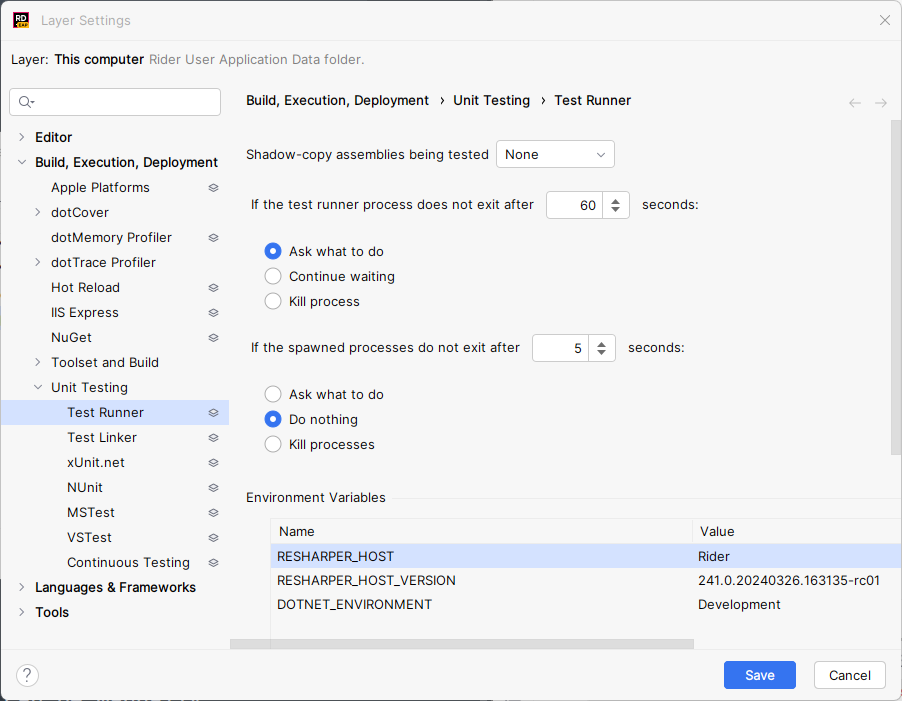
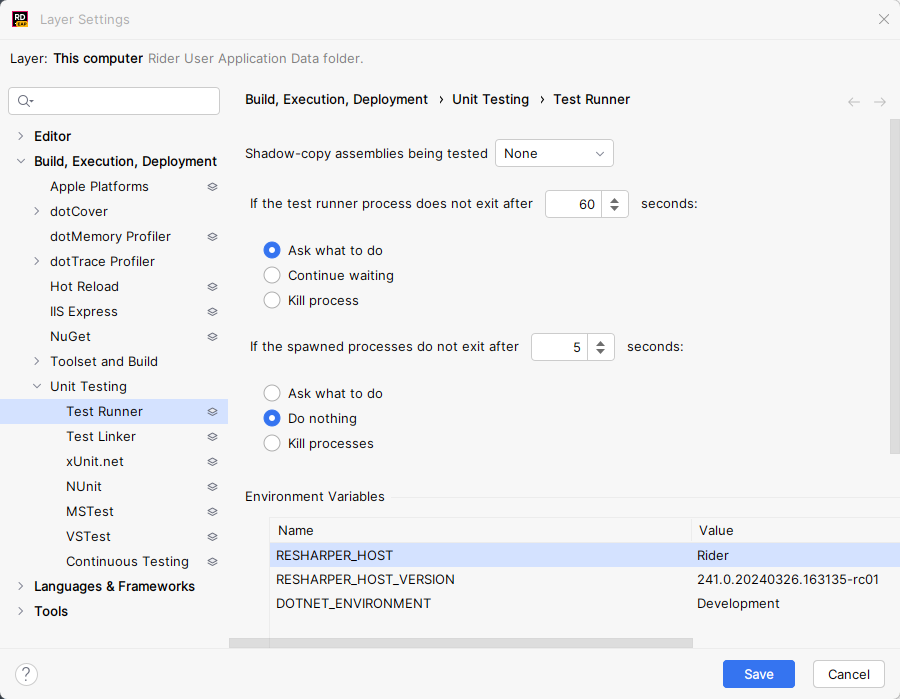
docs

diff --git a/docs/mdsource/diff-tool.source.md b/docs/mdsource/diff-tool.source.md
@@ -113,7 +113,7 @@ ReSharper | Options | Tools | Unit Testing | Test Runner
 
 File | Settings | Manage Layers | This computer | Edit Layer | Build, Execution, Deployment | Unit Testing | Test Runner
 
-<img src="rider-ignore-spawned.png" alt="Disable R# orphaned processes detection" width="400">
+<img src="rider-ignore-spawned.png" alt="Disable R# orphaned processes detection" width="500">
 
 
 ## Supported Tools:
